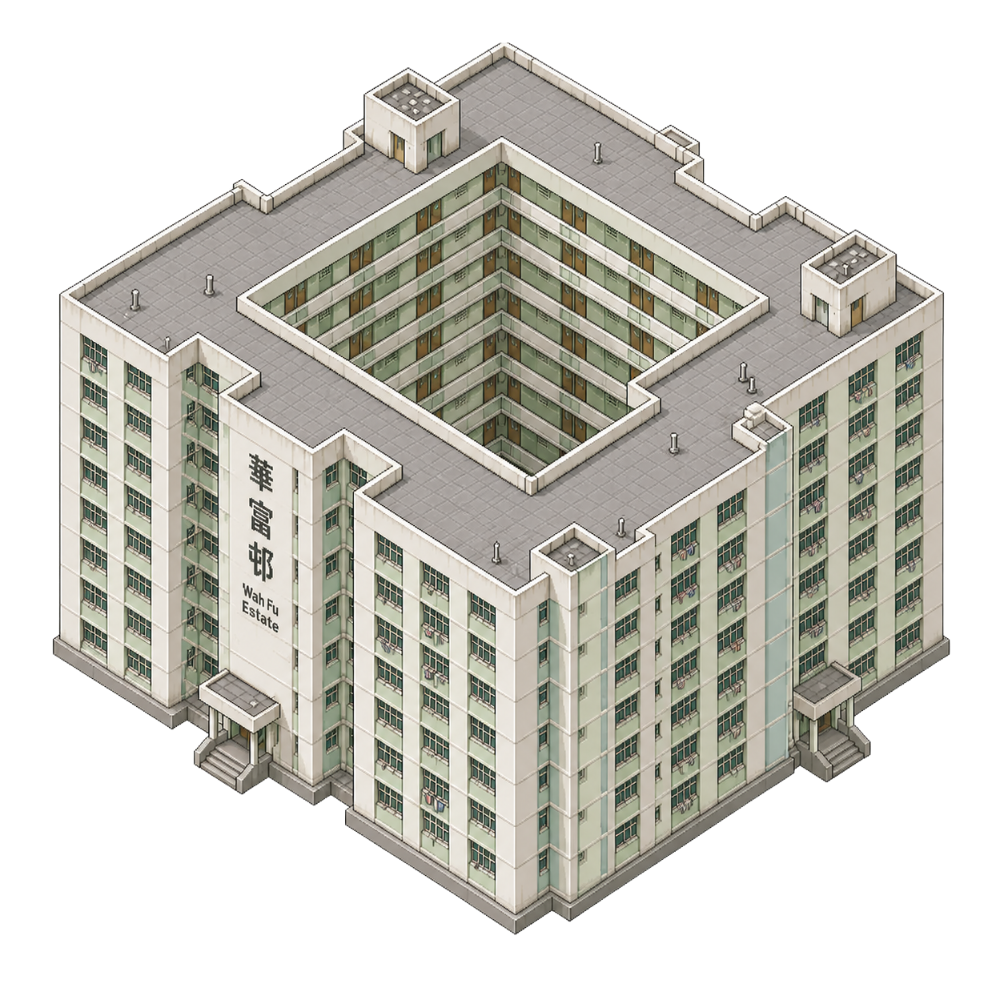
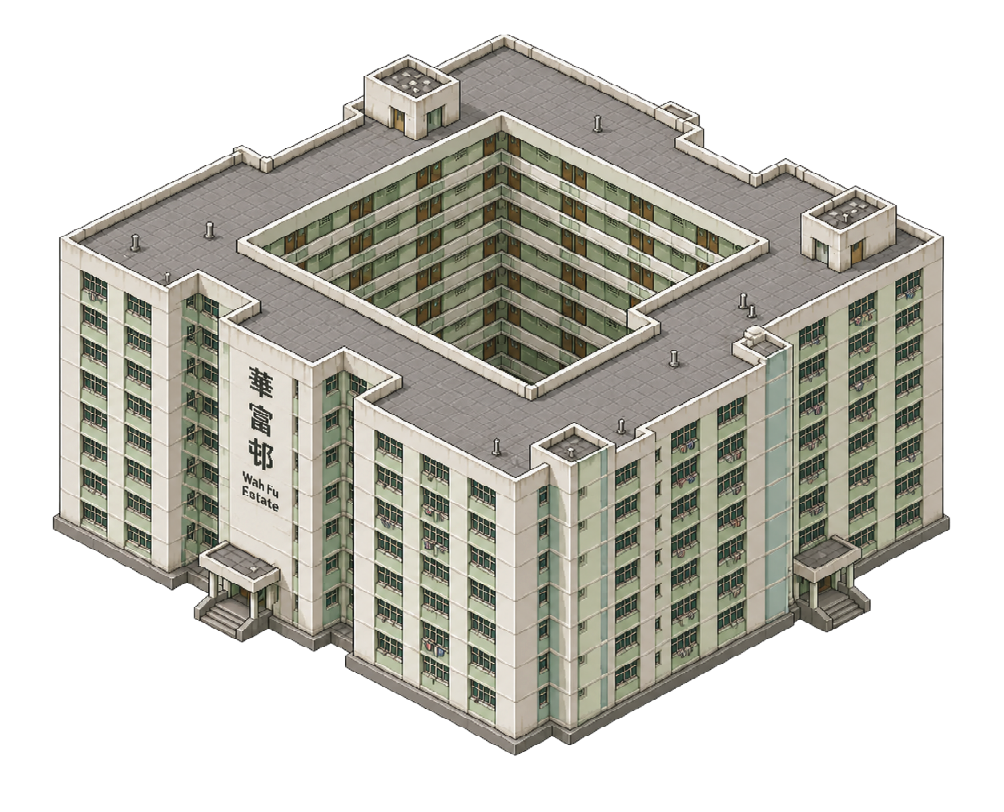
Tune 2x2 housing assets

diff --git a/main.js b/main.js
@@ -36,6 +36,12 @@ const HOUSE_MODEL_SETS = {
       'publicHousing3.png',
       'publicHousing1.png',
     ],
+    disabledFiles: ['publicHousing4.png'],
+    fileOverrides: {
+      'publicHousing1.png': { scaleMultiplier: 0.817, scaleYMultiplier: 0.92, offsetY: -8 },
+      'publicHousing2.png': { scaleMultiplier: 0.817, scaleYMultiplier: 0.92, offsetY: -8 },
+      'publicHousing3.png': { scaleMultiplier: 0.817, scaleYMultiplier: 0.92, offsetY: -8 },
+    },
     footprintCols: 2,
     footprintRows: 2,
   },
@@ -1160,8 +1166,9 @@ async function discoverModelFiles(keyPrefix, apiFolder, config) {
 function sortModelFiles(fileNames, config) {
   const preferred = config.preferredFiles ?? [];
   const rank = new Map(preferred.map((fileName, index) => [fileName, index]));
+  const disabled = new Set(config.disabledFiles ?? []);
 
-  return [...fileNames].sort((a, b) => {
+  return fileNames.filter((fileName) => !disabled.has(fileName)).sort((a, b) => {
     const aRank = rank.has(a) ? rank.get(a) : Number.POSITIVE_INFINITY;
     const bRank = rank.has(b) ? rank.get(b) : Number.POSITIVE_INFINITY;
     if (aRank !== bRank) return aRank - bRank;
@@ -1170,14 +1177,24 @@ function sortModelFiles(fileNames, config) {
 }
 
 function createModelEntries(keyPrefix, fileNames, config) {
-  return fileNames.map((fileName, index) => ({
-    key: `${keyPrefix}_${index}`,
-    title: fileName.replace(/\.[^.]+$/, ''),
-    path: encodeURI(`${config.folder}${fileName}`),
-    footprintCols: config.footprintCols,
-    footprintRows: config.footprintRows,
-    metadata: null,
-  }));
+  const disabled = new Set(config.disabledFiles ?? []);
+  return fileNames.filter((fileName) => !disabled.has(fileName)).map((fileName, index) => {
+    const overrides = config.fileOverrides?.[fileName] ?? {};
+    return {
+      key: `${keyPrefix}_${index}`,
+      title: fileName.replace(/\.[^.]+$/, ''),
+      fileName,
+      path: encodeURI(`${config.folder}${fileName}`),
+      footprintCols: config.footprintCols,
+      footprintRows: config.footprintRows,
+      scaleMultiplier: (config.scaleMultiplier ?? 1) * (overrides.scaleMultiplier ?? 1),
+      scaleXMultiplier: (config.scaleXMultiplier ?? 1) * (overrides.scaleXMultiplier ?? 1),
+      scaleYMultiplier: (config.scaleYMultiplier ?? 1) * (overrides.scaleYMultiplier ?? 1),
+      offsetX: overrides.offsetX ?? config.offsetX ?? 0,
+      offsetY: overrides.offsetY ?? config.offsetY ?? 0,
+      metadata: null,
+    };
+  });
 }
 
 function preload() {
@@ -3264,7 +3281,16 @@ function prepareHouseModelMetadata(scene) {
     const source = scene.textures.get(model.key)?.getSourceImage();
     if (!source) return;
 
-    model.metadata = getSpriteFootprintMetadata(source, model.footprintCols, model.footprintRows);
+    model.metadata = getSpriteFootprintMetadata(
+      source,
+      model.footprintCols,
+      model.footprintRows,
+      model.scaleMultiplier ?? 1,
+      model.scaleXMultiplier ?? 1,
+      model.scaleYMultiplier ?? 1,
+    );
+    model.metadata.offsetX = model.offsetX ?? 0;
+    model.metadata.offsetY = model.offsetY ?? 0;
   });
 }
 
@@ -3525,6 +3551,10 @@ function placeHouseModel(scene, row, col, tool) {
     originX: opts.originX,
     originY: opts.originY,
     scale:   opts.scale,
+    scaleX:  opts.scaleX,
+    scaleY:  opts.scaleY,
+    offsetX: opts.offsetX,
+    offsetY: opts.offsetY,
   };
 }
 
@@ -3536,8 +3566,8 @@ function placeSpriteBuilding(scene, row, col, key, options = {}) {
   const anchor = getBuildingAnchor(row, col, footprintCols, footprintRows);
   const elevOffset = getBuildingElevationOffset(row, col, footprintCols, footprintRows);
   const building = scene.add.image(
-    anchor.x + scene.offsetX,
-    anchor.y + scene.offsetY - BUILDING_SURFACE_Y_OFFSET + elevOffset,
+    anchor.x + scene.offsetX + (options.offsetX ?? 0),
+    anchor.y + scene.offsetY - BUILDING_SURFACE_Y_OFFSET + elevOffset + (options.offsetY ?? 0),
     key,
   );
   building.setOrigin(options.originX ?? 0.5, options.originY ?? 1);
@@ -3552,6 +3582,8 @@ function placeSpriteBuilding(scene, row, col, key, options = {}) {
   building.mapCol = col;
   building.footprintCols = footprintCols;
   building.footprintRows = footprintRows;
+  building.spriteOffsetX = options.offsetX ?? 0;
+  building.spriteOffsetY = options.offsetY ?? 0;
 
   getFootprintTiles(row, col, footprintCols, footprintRows).forEach(([tileRow, tileCol]) => {
     scene.buildingSprites.set(getTileId(tileRow, tileCol), building);
@@ -3559,6 +3591,16 @@ function placeSpriteBuilding(scene, row, col, key, options = {}) {
 }
 
 function normalizeSpriteBuildingOptions(key, options = {}) {
+  const houseModel = getHouseModelBySpriteKey(key);
+  if (houseModel?.metadata) {
+    return {
+      ...options,
+      footprintCols: houseModel.footprintCols ?? houseModel.metadata.footprintCols ?? options.footprintCols ?? 1,
+      footprintRows: houseModel.footprintRows ?? houseModel.metadata.footprintRows ?? options.footprintRows ?? 1,
+      ...houseModel.metadata,
+    };
+  }
+
   if (isPowerPlantSpriteKey(key)) {
     const buildingType = getPowerPlantTypeBySpriteKey(key);
     const model = POWER_PLANT_MODELS[buildingType];
@@ -3594,6 +3636,10 @@ function normalizeSpriteBuildingOptions(key, options = {}) {
     footprintCols: parkOption?.footprintCols ?? (key === 'park_large' ? 3 : 1),
     footprintRows: parkOption?.footprintRows ?? (key === 'park_large' ? 3 : 1),
   };
+}
+
+function getHouseModelBySpriteKey(key) {
+  return Object.values(houseModelSets).flat().find((model) => model.key === key) ?? null;
 }
 
 function isParkSpriteKey(key) {
@@ -3654,7 +3700,10 @@ function positionBuilding(scene, building) {
   const footprintRows = building.footprintRows ?? 1;
   const anchor = getBuildingAnchor(building.mapRow, building.mapCol, footprintCols, footprintRows);
   const elevOffset = getBuildingElevationOffset(building.mapRow, building.mapCol, footprintCols, footprintRows);
-  building.setPosition(anchor.x + scene.offsetX, anchor.y + scene.offsetY - BUILDING_SURFACE_Y_OFFSET + elevOffset);
+  building.setPosition(
+    anchor.x + scene.offsetX + (building.spriteOffsetX ?? 0),
+    anchor.y + scene.offsetY - BUILDING_SURFACE_Y_OFFSET + elevOffset + (building.spriteOffsetY ?? 0),
+  );
   building.setDepth(anchor.y + TILE_HEIGHT + elevOffset);
 }
 

diff --git a/save.js b/save.js
@@ -292,6 +292,8 @@ function normalizeLoadedBuildingOptions(key, record) {
     scale: record.scale,
     scaleX: record.scaleX,
     scaleY: record.scaleY,
+    offsetX: record.offsetX,
+    offsetY: record.offsetY,
   };
 
   if (typeof isPowerPlantSpriteKey === 'function' && isPowerPlantSpriteKey(key) && typeof normalizeSpriteBuildingOptions === 'function') {
@@ -303,6 +305,10 @@ function normalizeLoadedBuildingOptions(key, record) {
   }
 
   if (typeof isParkSpriteKey === 'function' && isParkSpriteKey(key) && typeof normalizeSpriteBuildingOptions === 'function') {
+    return normalizeSpriteBuildingOptions(key, options);
+  }
+
+  if (typeof normalizeSpriteBuildingOptions === 'function') {
     return normalizeSpriteBuildingOptions(key, options);
   }
 

diff --git a/simulation.js b/simulation.js
@@ -345,6 +345,8 @@ function spawnZoneBuilding(scene, r, c, zone, level, density = DENSITY_LOW, opti
     scale:   options.scale,
     scaleX:  options.scaleX,
     scaleY:  options.scaleY,
+    offsetX: options.offsetX,
+    offsetY: options.offsetY,
   };
   return true;
 }